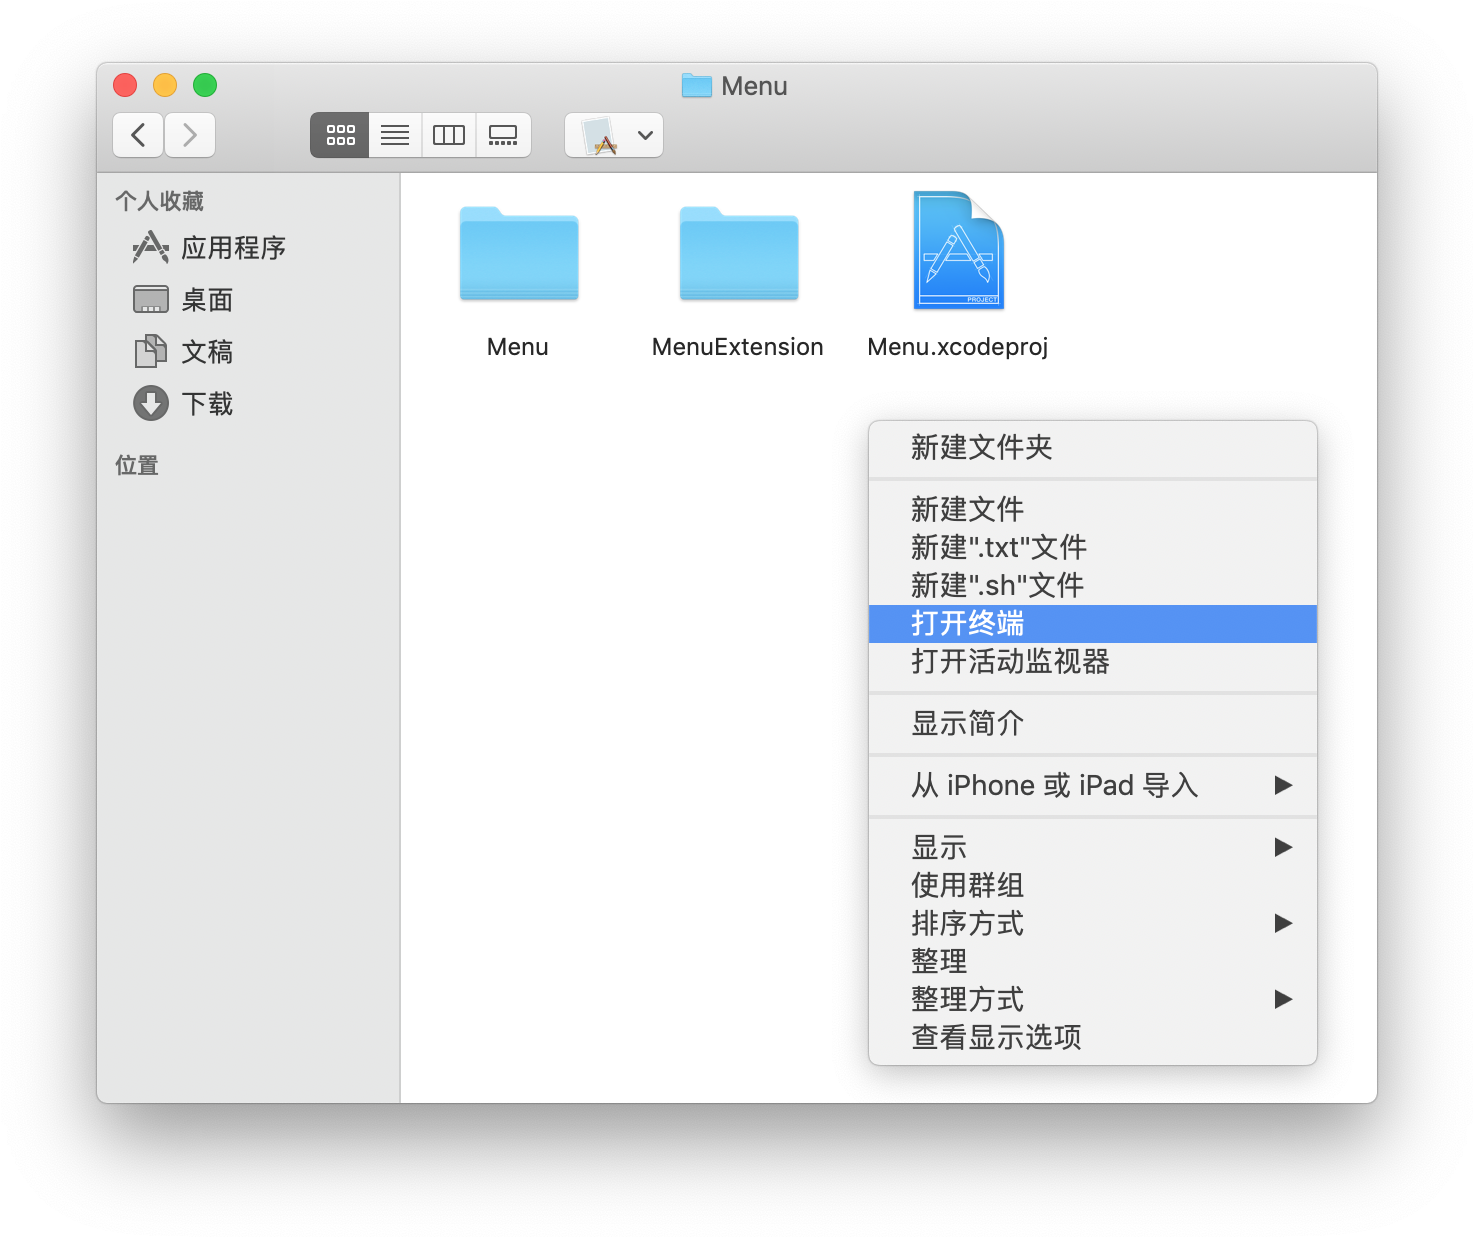
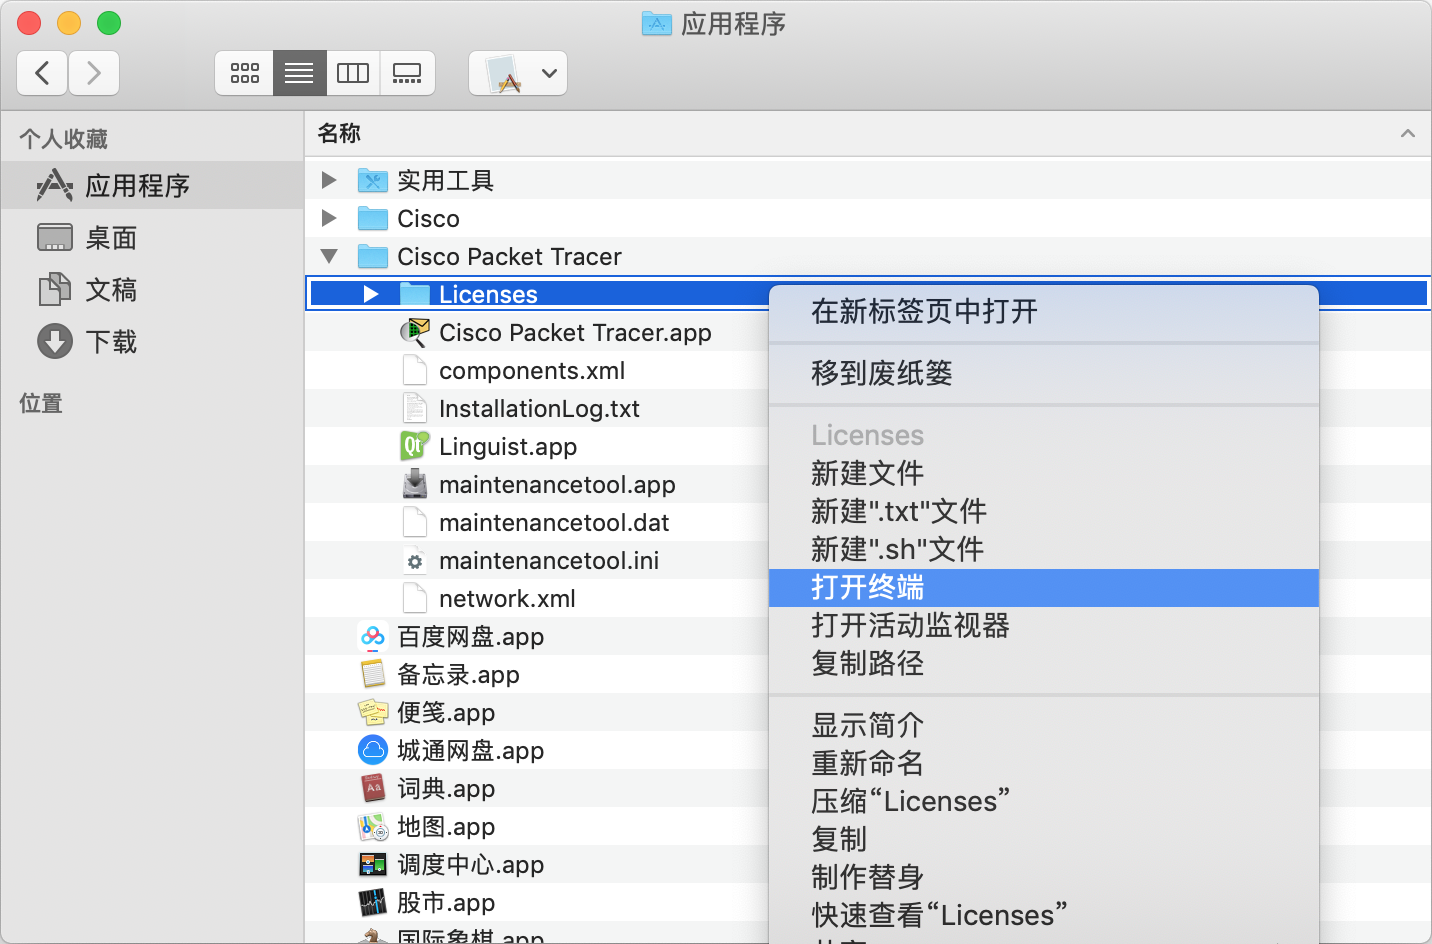
增加：在菜单显示当前文件夹名；支持子文件夹菜单

diff --git a/MenuExtension/FinderSync.swift b/MenuExtension/FinderSync.swift
@@ -10,14 +10,16 @@ import Cocoa
 import FinderSync
 
 class FinderSync: FIFinderSync {
-	var menuCommands = [String: String]()
+	var menuItems = [[String]]()
+	var completePath = ""
 
-	func loadMenuItems() -> [[String]] {
+	func loadMenuItems() {
 		let defaults = UserDefaults.standard.object(forKey: "MenuItems")
 		if defaults == nil {
-			return [[String]]()
+			menuItems = [[String]]()
+			return
 		}
-		return defaults as! [[String]]
+		menuItems = defaults as! [[String]]
 	}
 
 	func loadMountPoints() {
@@ -33,6 +35,22 @@ class FinderSync: FIFinderSync {
 
 	// MARK: - Menu and toolbar item support
 
+	func newMenuItem(title: String, action: Selector?, isEnabled: Bool? = true, tag: NSInteger? = -1) -> NSMenuItem {
+		let menuItem = NSMenuItem(title: title, action: action, keyEquivalent: "")
+		menuItem.isEnabled = isEnabled!
+		menuItem.tag = tag!
+		return menuItem
+	}
+
+	func getPath() -> [String]? {
+		var path = FIFinderSyncController.default().targetedURL()!
+		let selectedItems = FIFinderSyncController.default().selectedItemURLs()
+		if selectedItems != nil, selectedItems!.count == 1, selectedItems?.first?.hasDirectoryPath == true {
+			path = (selectedItems?.first!)!
+		}
+		return [path.path, path.lastPathComponent]
+	}
+
 	override var toolbarItemName: String {
 		return "Menu"
 	}
@@ -46,30 +64,39 @@ class FinderSync: FIFinderSync {
 	}
 
 	override func menu(for menuKind: FIMenuKind) -> NSMenu {
-		loadMountPoints()
 		let menu = NSMenu(title: "")
-		if menuKind == .contextualMenuForContainer || menuKind == .toolbarItemMenu {
-			let menuItems = loadMenuItems()
-			if menuItems.count == 0 {
-				let noMenuItem = NSMenuItem(title: "No Menu", action: nil, keyEquivalent: "")
-				noMenuItem.isEnabled = false
-				menu.addItem(noMenuItem)
-			} else {
-				for menuItem in menuItems {
-					menu.addItem(withTitle: menuItem[0], action: #selector(menuAction), keyEquivalent: "")
-					menuCommands[menuItem[0]] = menuItem[1]
-				}
-			}
+		if menuKind != .contextualMenuForContainer, menuKind != .toolbarItemMenu, menuKind != .contextualMenuForItems {
+			return menu
+		}
+		let path = getPath()
+		if path == nil {
+			return menu
+		}
+		loadMenuItems()
+		loadMountPoints()
+		completePath = path![0]
+		menu.addItem(newMenuItem(title: path![1], action: #selector(menuAction), isEnabled: false))
+		var itemsIndex = 0
+		for menuItem in menuItems {
+			menu.addItem(newMenuItem(
+				title: menuItem[0],
+				action: #selector(menuAction),
+				tag: itemsIndex
+			))
+			itemsIndex += 1
 		}
 		return menu
 	}
 
-	@IBAction func menuAction(_ sender: NSMenuItem) {
+	@IBAction func menuAction(_ menuItem: NSMenuItem) {
+		if menuItem.tag < 0 {
+			return
+		}
 		let proc = Process()
 		proc.environment = ProcessInfo.processInfo.environment
-		proc.currentDirectoryPath = FIFinderSyncController.default().targetedURL()?.path ?? "~/"
-		proc.launchPath = "/bin/sh"
-		proc.arguments = ["-c", menuCommands[sender.title]!]
+		proc.currentDirectoryPath = completePath
+		proc.launchPath = "/bin/bash"
+		proc.arguments = ["-c", menuItems[menuItem.tag][1]]
 		proc.launch()
 	}
 }

diff --git a/README.md b/README.md
@@ -2,11 +2,11 @@
 
 Finder 菜单扩展，从当前文件夹执行Shell命令。
 
-可实现右键在当前文件夹打开终端、新建文件等操作。
+可实现右键在当前或选定的文件夹进行打开终端、新建文件等操作。
 
 ![](https://raw.githubusercontent.com/claw6148/LaunchHere/master/Capture.png)
 
-# 使用方法
+## 使用方法
 
 1. 编译并运行
 
@@ -15,11 +15,12 @@ Finder 菜单扩展，从当前文件夹执行Shell命令。
 3. 在终端执行以下命令添加菜单项
 
 ```
-$ defaults write dotZ.Menu.MenuExtension MenuItems -array \
-'("新建文件","F=New-$RANDOM; touch $F")' \
-'("新建\".txt\"文件","F=New-$RANDOM.txt; touch $F")' \
-'("新建\".sh\"文件","F=New-$RANDOM.sh; touch $F; chmod +x $F")' \
+defaults write dotZ.Menu.MenuExtension MenuItems -array \
+'("新建文件","F=New-$RANDOM && touch $F")' \
+'("新建\".txt\"文件","F=New-$RANDOM.txt && touch $F")' \
+'("新建\".sh\"文件","F=New-$RANDOM.sh && touch $F && chmod a+x $F")' \
 '("打开终端","open -a Terminal .")' \
 '("打开活动监视器","open -a Activity\\ Monitor")' \
+'("复制路径","echo -n $PWD|pbcopy")' \
 ;
 ```
